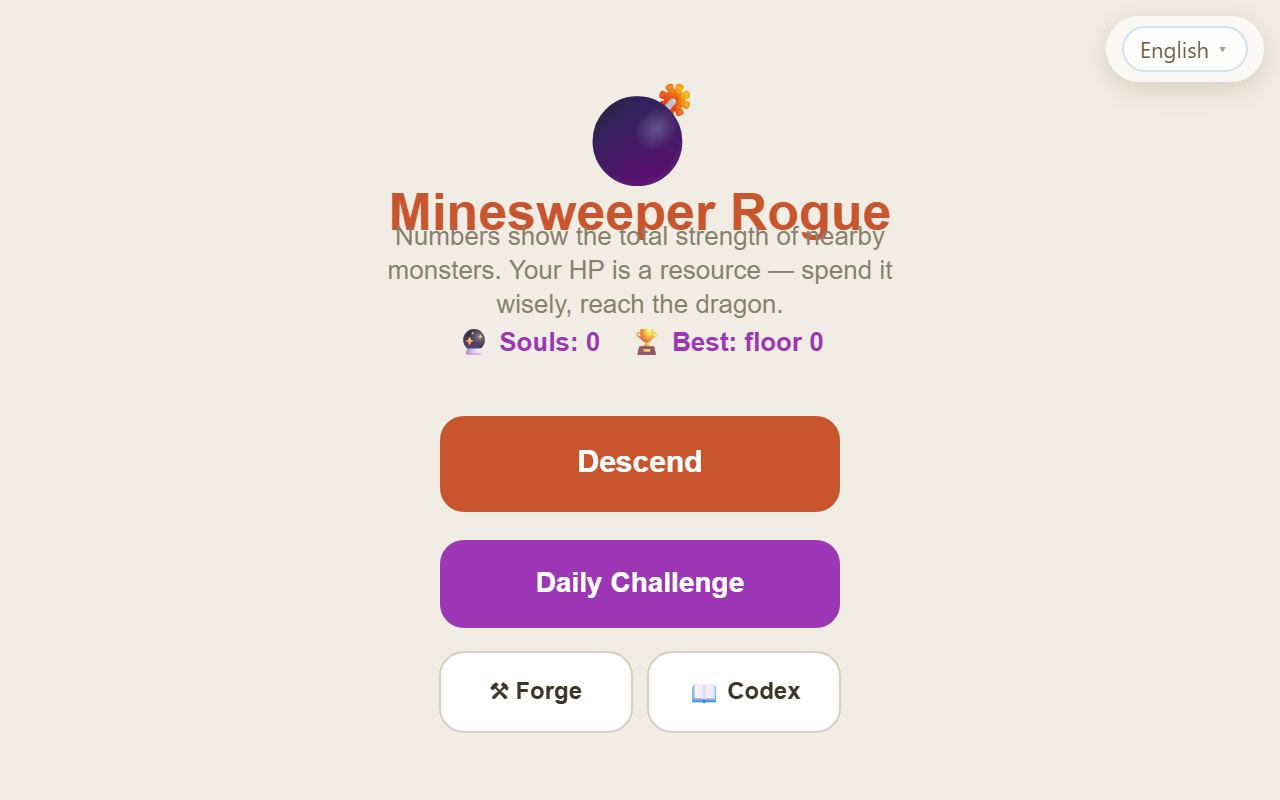
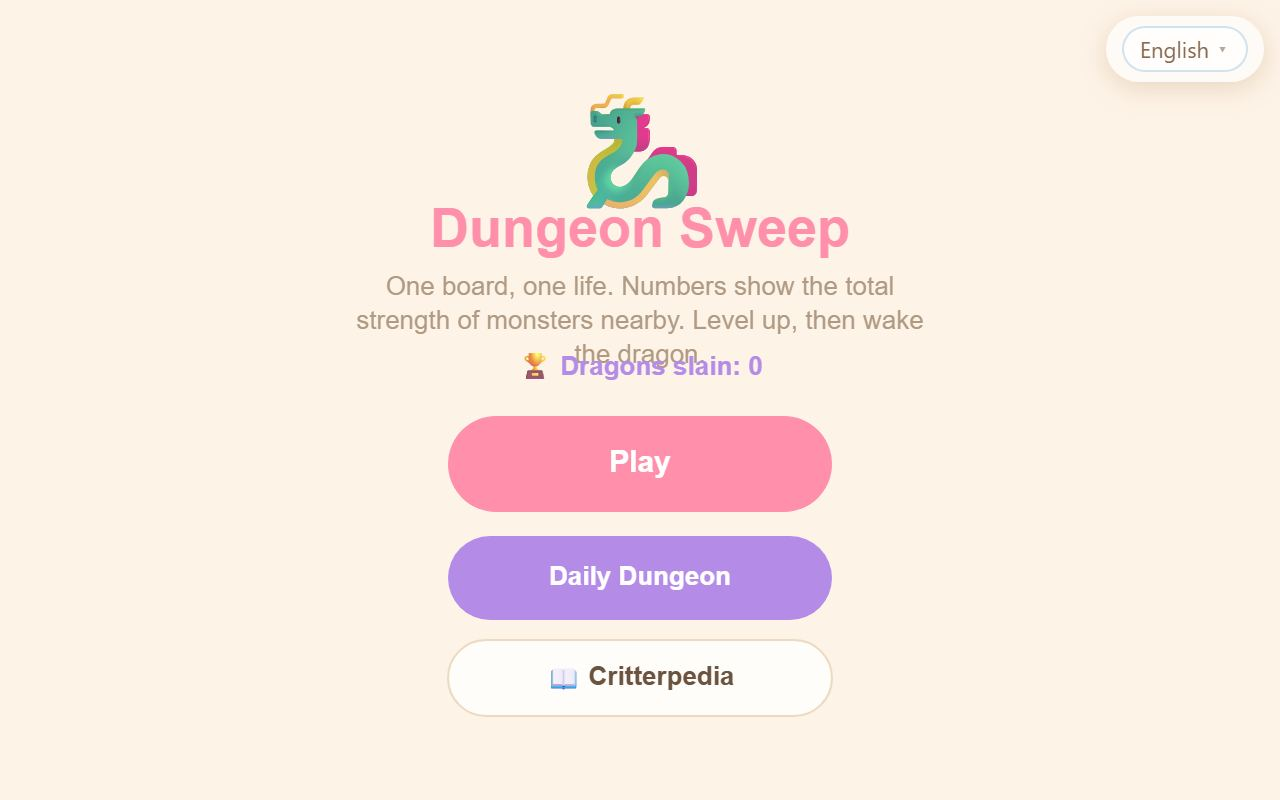
mines card → Dungeon Sweep v2 (cute single-board), new copy + thumbnail

Changed region(s): [[0.3438, 0.5, 0.6562, 0.9062], [0.2812, 0.0938, 0.7188, 0.4688]]

diff --git a/index.html b/index.html
@@ -45,7 +45,7 @@
     { "@type": "ListItem", "position": 6, "name": "2048 Abyss — deep-sea roguelite merge puzzle", "url": "https://4096.ai-speeds.com/" },
     { "@type": "ListItem", "position": 7, "name": "FishID — ocean life encyclopedia, 270 species", "url": "https://fishid.ai-speeds.com/" },
     { "@type": "ListItem", "position": 8, "name": "ScubaSites — structured dive site guides", "url": "https://scubasites.ai-speeds.com/" },
-    { "@type": "ListItem", "position": 9, "name": "Minesweeper Rogue — minesweeper roguelite dungeon crawl", "url": "https://mines.ai-speeds.com/" }
+    { "@type": "ListItem", "position": 9, "name": "Dungeon Sweep — cute minesweeper RPG", "url": "https://mines.ai-speeds.com/" }
   ]
 }
 </script>
@@ -356,11 +356,11 @@
           <div class="title-row">
             <div class="tile t-mines">💣</div>
             <div>
-              <h3 data-i18n="projects.mines.name">Minesweeper Rogue</h3>
-              <div class="tag" data-i18n="projects.mines.tag">Roguelite · Minesweeper</div>
+              <h3 data-i18n="projects.mines.name">Dungeon Sweep</h3>
+              <div class="tag" data-i18n="projects.mines.tag">Cute · Minesweeper RPG</div>
             </div>
           </div>
-          <p class="desc" data-i18n="projects.mines.desc">Minesweeper reborn as a dungeon crawl — numbers show monster strength, HP is a resource to spend. Slay the dragon on floor 3.</p>
+          <p class="desc" data-i18n="projects.mines.desc">One board, one life: numbers show monster strength, HP is a resource, exactly 0 is safe. Level up and slay the dragon.</p>
           <span class="open" data-i18n="card.open">Open</span>
         </div>
       </a>